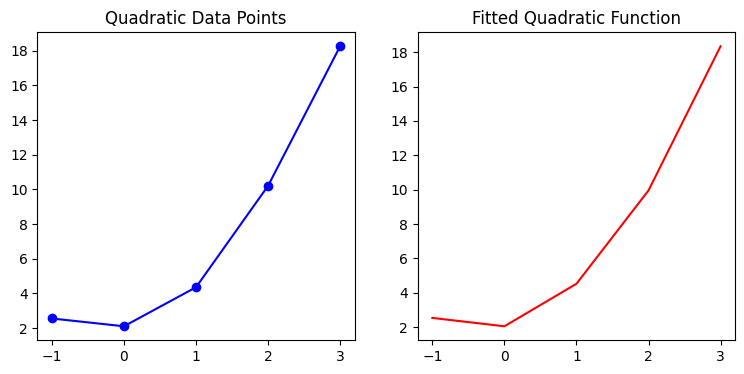
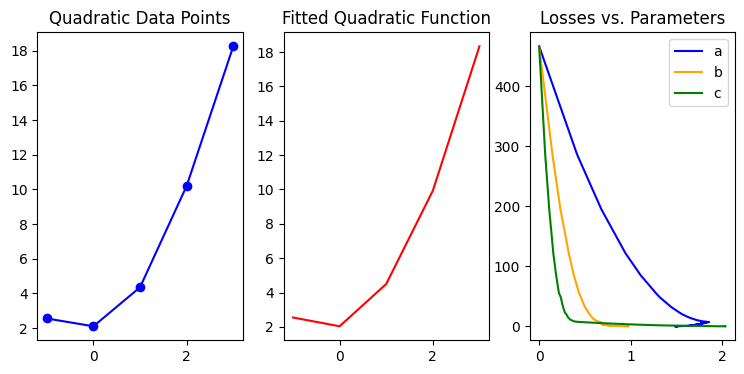
modify layout, an images, and some typo.

diff --git a/_layouts/home.html b/_layouts/home.html
@@ -140,7 +140,7 @@
               <a href="https://discord.com/users/857812023978623036" title="Discord" target="_blank" rel="noopener">
                 <img src="{{ '/assets/images/Discord-Symbol-Blurple.svg'}}" alt="Discord" style="width: 29px; height: 29px; object-fit: contain;" />
               </a>
-              <a href="/assets/images/mywechat.jpg" title="WeChat">
+              <a href="usrername:ray_cc_org" title="WeChat">
                 <img src="{{ '/assets/images/icons8-wechat-480.svg' | relative_url }}" alt="WeChat" style="width: 32px; height: 32px; object-fit: contain;" />
               </a>
             </div>

diff --git a/_posts/2025-05-22-core-optimization.md b/_posts/2025-05-22-core-optimization.md
@@ -9,24 +9,34 @@ rating: 2
 
 #### The Little Learner
 
-欢迎来到我的博客！我最近学了深度学习的基础知识，所以打算写一个系列博客解释这些概念。目标是从最基础的概念出发，逐步深入到深度神经网络的原理与实践。这个系列文章的目标读者应该是跟我一样对深度学习技术比较感兴趣，没有基础，但是想要建立一个坚实的基础，或者至少了解基本概念的人。
+欢迎来到深度学习探索之旅！ 最近我系统学习了深度学习的原理，决定创作一个系列博客，与大家分享这段知识发现之旅。本系列将从最基础的概念起步，逐步深入到深度神经网络的原理与实践，最终目标是构建一个简易深度学习框架。无论您是零基础爱好者，还是想巩固根基的实践者，都能在此找到价值。
 
-这一系列文章的内容将会主要来自一本书《The Little Learner: A Straight Line to Deep Learning》。
+本系列内容主要源自《The Little Learner: A Straight Line to Deep Learning》——一本独具匠心的深度学习入门经典。在众多学习资料中选择它，源于其两大特色：苏格拉底式对话教学：通过问答形式逐步对每一个概念建立认知；函数式编程：采用Scheme语言。
 
-市面上关于深度学习基础的资料有非常多，为什么要选这本书呢？这就要说起这本书最大的特色了，其实跟作者其他的Little book一样——用苏格拉底式的对话方式进行教学；使用Sheme编程语言。虽然这种写作风格和编程语言并非主流，你可能根本都没听过，但却是我的最爱。
+虽然这种教学风格和语言并非主流，但正是这种独特性使其成为我的至爱。在本文中我会尝试用大白话来代替对话体来对解释概念；并且以深度学习中主导的编程语言Python替代Scheme。
 
-不过本系列文章不会采用书中对话的方式，我会尝试自己组织语言来解释这些概念；也不会用scheme语言，而是用大多数人更熟悉的Python。
+本系列文章的特点主要继承自该书：
+1. 简单，不假设读者有太多数学基础；
+2. 函数式编程风格为主，虽然不使用Scheme,不过会保留函数式编程精髓。建议不熟悉的读者提前了解闭包、高阶函数等概念。
 
-跟原书一样，文章仅需要读者理解一些基础的代数和算数的概念。主要的要求是能看懂Pyhon代码。因为代码风格参考Scheme，因此会大量使用高阶函数、匿名函数和列表推导式等函数式编程中的概念，需要读者先行了解。
+可能有人会问为何坚持函数式范式？首先当然是个人偏好；第二是函数式编程旨在尽量消除副作用，通过函数来传递数据等特点，使得数据流变得安全、清晰、容易思考。深度学习中通常包含大量数学表达式，大量传递数据，通常不包含太多有状态的组件，这些特点使与函数式编程非常契合。这应该也是JAX,Pythorch等流行的库或者框架主要使用或者大量使用函数式编程范式的原因。
+
+要想更好地理解本文，需要一些准备：
+1. Python基础：列表推导式、匿名函数和高阶函数等Python语法；
+2. 数学准备：仅需线性函数等基础概念，我们会探索所有必要知识；
+3. 开放的心态：如果没看懂，可能是我解释不够好，欢迎联系我并给出反馈。你也可以自己进一步探索，但是不要轻易放弃。
+   
+如果准备好了就开始吧。
 
 #### 简单线性函数
 
-首先回忆一下中学学过的一次函数。表达式可能是：f(x) = y = wx + b(课本上可能是K，这里用w没什么区别)。w 来自英文单词 weight（权重），也被称为系数；b 来自 bias（偏移量）。
+首先回忆一下中学学过的一次函数。表达式可能是：f(x) = wx + b或者y = kx + b。f(x)强调其函数性质；y表示一个值；系数用哪个字母表示没什么区别,在机器学习中常用w表示。w 来自英文单词 weight（权重），也被称为系数；b 来自 bias（偏移量）。
+
 假设w = 1; b= 0在平面几何表示他们关系如下图：
 
 ![线性函数](/assets/images/line.png)
 
-自变量x和因变量y的关系在平面直角坐标系中表示为一条直线时，这样的函数称为一次函数，也常被称为线性函数（在初中数学里）。如果w的值改变y对于x的变化率会提升，如果b改变则会使整条直线会上下移动。
+自变量x和因变量y的关系在平面直角坐标系中表示为一条直线时。这样的函数称为**一次函数（linear function）**。如果w的值改变y对于x的变化率会提升，如果b改变则会使整条直线会上下移动。
 
 现在我们尝试用代码表示这个函数
 ```python
@@ -106,7 +116,7 @@ def loss(xs: Iterable[float], ys: Iterable[float], theta: list[float]):
 
 虽然现在loss函数返回一个总值，但引入了一个新问题：如果一个预测偏高（差值为正），另一个预测偏低（差值为负），它们的损失加起来可能会相互抵消，使得总体损失看起来很小，但实际上每个点的预测都不准确。
 
-为了解决这个问题，就需要消除列表中的负值。有两个方法可以做到：一个是取绝对值，一个是计算平方。两种方法得出来的结果分别叫做**绝对损失（Absolute Loss）**和**平方损失（squared error）**，也叫做**L1**或者**L2损失**。两种方式各有其应该场景，在针对线性回归以及之后会遇到其他归回任务L2损失更合适，这里只实现L2损失。
+为了解决这个问题，就需要消除列表中的负值。有两个方法可以做到：一个是取绝对值，一个是计算平方。两种方法得出来的结果分别叫做**绝对损失（Absolute Loss）**和**平方损失（squared error）**，也叫做**L1**或者**L2损失**。两种方式各有其应该场景，对于回归任务，L2损失更合适，这里只实现L2损失。
 
 对于单个数据点，L2损失可以这样计算：
 ```python
@@ -120,7 +130,6 @@ def l2_loss(xs: Iterable[float], ys: Iterable[float], theta: List[float]) -> flo
     pred_ys = line(xs)(*theta)
     errors = sub(ys, pred_ys)
     return sum(sqr(errors))
-
 ```
 
 我们的目标是找到一个$θ$，使得整个数据集上所有数据点的L2损失之和最小。也就是说我们需要套用损失函数，求出误差值作为参考不断迭代$θ$。在这个过程中l2_loss函数是我们优化的目标，也把它被称为**目标函数（objective function）**，有时候会用英文字母$J$表示。

diff --git a/_posts/2025-06-07-tensor.md b/_posts/2025-06-07-tensor.md
@@ -9,9 +9,14 @@ rating: 2
 
 ### 引言
 
-欢迎来到本系列的第三篇内容，本文将会介绍深度学习的另一个支柱——**张量（Tensor）**。理解其概念和属性之后，会进一步探索针对张量的操作，并想办法拓展之前针对数字或者列表的操作到张量上。
+欢迎来到本系列第三篇！如果说梯度下降是深度学习的优化引擎，那么今天将介绍的张量（Tensor）就是其燃料系统，它是所有深度学习框架的底层支柱。
 
-本文的内容相对独立于之前两篇，但是之后的内容会严重依赖本文，建议按顺序阅读。
+这个概念将帮助我们：
+统一数据表达：从图像、文本到音频，从标量到高维数据，都可以通过张量进行统一建模。
+突破计算维度：张量支持任意维度的数据结构，使得模型能够灵活处理不同形态的数据输入。
+奠基模型架构：神经网络的权重与输入的本质载体，都是张量。无论是卷积层、全连接层还是循环层，它们的操作本质上都是对张量的变换。（体会一下TensorFlow这个知名深度学习框架名的意思）。
+
+虽然本文概念独立成篇，但后续关于自动微分与网络构建的内容，都离不开张量操作。强烈建议按顺序阅读以获取完整知识拼图。
 
 ### 标量、向量、矩阵与张量
 
@@ -177,10 +182,11 @@ def ext1(f: Callable, r: int) -> Callable[[Tensor], Tensor]:
 
 # 现在拓展一些函数
 add1 = ext1((lambda x: x + 1), 0)
-zero = ext1((lambda _: 0), 0)
-sqr = ext1((lambda x: x * x), 0)
-
+zeros = ext1((lambda _: 0), 0)
+tsqr = ext1((lambda x: x * x), 0)
+tsqrt = ext1((lambda x: x ** 0.5), 0)
 tsum = ext1((lambda x: sum(x)), 1)
+
 
 def flatten2(t: Tensor) -> List[Scalar]:
     assert of_rank(2, t), "Input tensor must be of rank 2"
@@ -247,6 +253,7 @@ def ext2_broadcast(base_func: Callable, n: int, m: int) -> Callable:
 tsub = ext2_broadcast((lambda m, n: m - n), 0, 0)
 tmul = ext2_broadcast((lambda m, n: m * n), 0, 0)
 tadd = ext2_broadcast((lambda m, n: m + n), 0, 0)
+tdiv = ext2_broadcast((lambda m, n: m / n), 0, 0)
 
 def dot1(t: Tensor, u: Tensor) -> Scalar:
     assert of_rank(1, t) and of_rank(1, u), "Both tensors must be of rank 1"
@@ -286,7 +293,7 @@ def l2_loss(target: Callable[[Tensor], Callable]) -> Callable:
             pred_ys = target(xs)(*theta)
             #使用tsub和tsum
             errors = tsub(ys, pred_ys)
-            return tsum(sqr(errors)) 
+            return tsum(tsqr(errors)) 
         return objective
     return expectant
 
@@ -438,7 +445,7 @@ dot_product = np.dot(t1, t2)
 
 # tmap、tmap2、ext1、ext2这些所有函数都只能对应到一个函数numpy.vectorize或者jax.vmap中
 # numpy.vectorize实现逻辑和我们的相同只是列表推导式把所有参数传给上一个函数
-# jax.vmap函数还能显式指定展开维度,比我们的实现功能更强大
+# jax.vmap函数还能显式指定展开维度
 def ext(func, *tensors: Tensor) -> Tensor:
     # 这里是高阶函数
     return np.vectorize(func)(*tensors)
@@ -459,7 +466,7 @@ def nabla(
     # Autograd的grad函数无法正确地处理List[Tensor];JAX.grad更通用
     return grad(objective_func)(theta)
 ```
-这里之所以提JAX而不是更常见的Pytorch、TensorFlow等框架是因为JAX也遵循函数式编程范式，学过本系列文章，应该能很快上手。
+这里之所以提JAX而不是更常见的Pytorch、TensorFlow等框架是因为JAX显式遵循函数式编程范式，很容易把之前学到东西转换到JAX上（除了JAX可以显式指定按照某个维度展开，比我们的实现要更强大之外，跟我们的实现效果差不多），甚至可以直接使用JAX.grad代替nabla函数而不用修改任何代码。
 
 还需注意使用这些库所带来的速度提升只有在数据量比较大的情况下才能看到。目前为止我们接触的数据量都非常小，所以使用它们不仅不会带来明显的加速，反倒可能会显著减慢运行速度。
 

diff --git a/_posts/2025-05-28-gradient-descent.md b/_posts/2025-05-28-gradient-descent.md
@@ -8,7 +8,7 @@ rating: 2
 ---
 
 
-#### 回顾与展望
+#### 引言
 欢迎来到零基础深度学习系列的第二篇内容。
 
 本文的内容紧接上一篇遗留的问题——在上一篇文章中，我们定义了最基础的线性模型，目标函数以及用于参数更新的辅助函数，但尚未实现有效的优化算法。 
@@ -55,7 +55,6 @@ def nabla_single(objective_func: Callable[[List[float]], float],
     perturbed_loss = objective_func(perturbed_theta)
     gradient = (perturbed_loss - current_loss) / delta
     return gradient
-
 ```
 参数delta参数代表微增量，这个方法通过微小的参数扰动近似导数，类似于斜率公式 $(y2-y1)/(x2-x1)$。但 delta 太大会不精确，太小可能因浮点误差失真，通常取 1e-6。这种求导数的方法被称为数值微分。
 
@@ -77,7 +76,9 @@ def nabla(objective_func: Callable[[List[float]], float],
     gradients = [get_grad(theta.copy(), i) for i in range(len(theta))]
     return gradients
 ```
-这个函数看起来复杂了一些，但是其实先把计算导数的逻辑抽象出来，然后用列表推导式遍历参数而已。有了计算梯度的方法，接下来我们利用梯度信息来更新参数。
+这个函数看起来复杂了一些，但是其实先把计算导数的逻辑抽象出来，然后用列表推导式遍历参数而已。
+
+有了计算梯度的方法，接下来我们利用梯度信息来更新参数。
 
 #### 学习率：优化步伐的调节器
 
@@ -246,7 +247,7 @@ optimized_plane_theta = gradient_descent(
 
 修改nabla和update函数能让测试通过，可以自行尝试。要想比较优雅地解决这个问题，还需要先学习一个概念，我们下一篇文章处理。
 
-有趣的是，书中这个测试也通过了。原因是书中更早的时候就介绍了更复杂和数据结构以及操作；而且并没有给出nabla函数——也就是数值微分——的实现方案，想尝试书中代码的时候也只需要调用库函数。这么设计的原因是想专注于理解神经网络的相关概念。对微积分比较了解的朋友可以想一想怎么用链式法则来完成自动求导；不了解也完全不用着急，等神经网络讲完了，会有一篇博文讲自动求导。
+有趣的是，书中这个测试也通过了。原因是书中更早的时候就介绍了嵌套列表的基本操作；而且并没有给出nabla函数——也就是数值微分——的实现方案，想尝试书中代码的时候也只需要调用库函数。这么设计的原因是想专注于理解神经网络的相关概念。对微积分比较了解的朋友可以想一想怎么用链式法则来完成自动求导；不了解也完全不用着急，很快会专门有一篇博文讲自动求导的概念以及实现。
 
 #### 总结
 在本文中，我们深入探索了梯度下降算法。其核心在于：  
